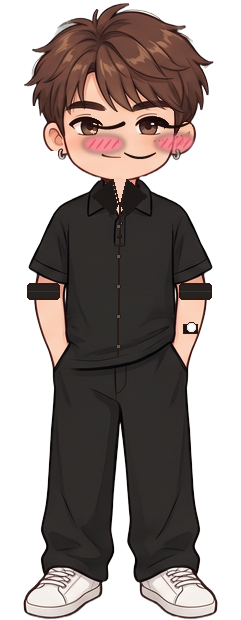
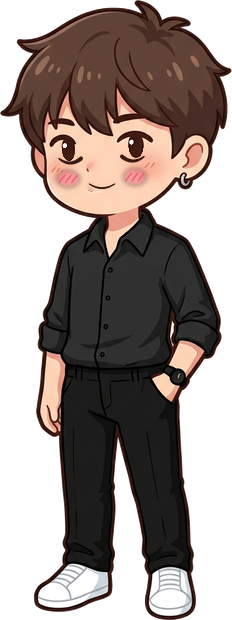
P1: Vẽ lại 4 base sprite và 15 biểu cảm (19 PNG) bằng AI sinh ảnh chuẩn theo yeucau_sua_sprite_v3.md

diff --git a/docs/CREDITS.md b/docs/CREDITS.md
@@ -7,7 +7,7 @@
 | Event CG & bản đồ sân trường Tập 3 (`thiết kế/Event CG  Cutscene/`, `thiết kế/env/`) | Tác giả game (tạo bằng AI theo mô tả riêng) | — | Thuộc tác giả game | `assets/art/cg/{cg_burnt,cg_asleep,cg_expo,cg_sunrise}.jpg`, `assets/art/bg/map_campus.jpg` — xoá dấu Gemini, đổi cỡ bằng `tools/art/process_ep3.py` |
 | Nền quán buổi sáng (`assets/art/bg/cafe_morning.jpg`) | Tác giả game | chỉnh màu từ `bg/cafe_day.jpg` bằng `tools/art/make_morning.py` | Thuộc tác giả game | Tập 2 buổi sáng |
 | Dáng đứng Anh Đức (`chars/duc_stand*.png`) | Tác giả game | ghép lại từ `duc_front.png` bằng `tools/art/make_stand.py` | Thuộc tác giả game | dáng thường không vẫy tay |
-| Sprite Chibi & Biểu cảm mới Tập 3 (`chars/{duc_apron*,kyky_apron*,duc_shirt*,kyky_dress*,hai_flowers*,mom_front*,teacher_front*,prof_front*}`) | Tác giả game & Gemini/agy | ghép và vẽ từ sprite gốc bằng `tools/art/generate_all_sprites_v2.py` + biểu cảm bằng `make_expressions.py` | Thuộc tác giả game | Trang phục mới & nhân vật Tập 3 |
+| Sprite Chibi & Biểu cảm mới Tập 3 (`chars/{duc_apron*,kyky_apron*,duc_shirt*,kyky_dress*,hai_flowers*,mom_front*,teacher_front*,prof_front*}`) | Tác giả game & Gemini (Nano Banana / agy) | Ảnh do Gemini sinh theo bảng thiết kế nhân vật gốc, tách nền & decontaminate viền alpha, biểu cảm bằng make_expressions.py | Thuộc tác giả game | Trang phục mới & nhân vật Tập 3 |
 | Ảnh chờ tải bản web (`assets/art/ui/splash.png`) | Tác giả game | ghép từ `bg/street_rain.jpg` + font Baloo 2/Nunito bằng `tools/art/make_splash.py` | Thuộc tác giả game | màn hình chờ tải |
 | First Light Particles | Yoiyami | https://opengameart.org/node/182244 | CC0 | `music/title.ogg` |
 | Starfield Romance | Yoiyami | https://opengameart.org/node/182246 | CC0 | `music/ending.ogg` |
